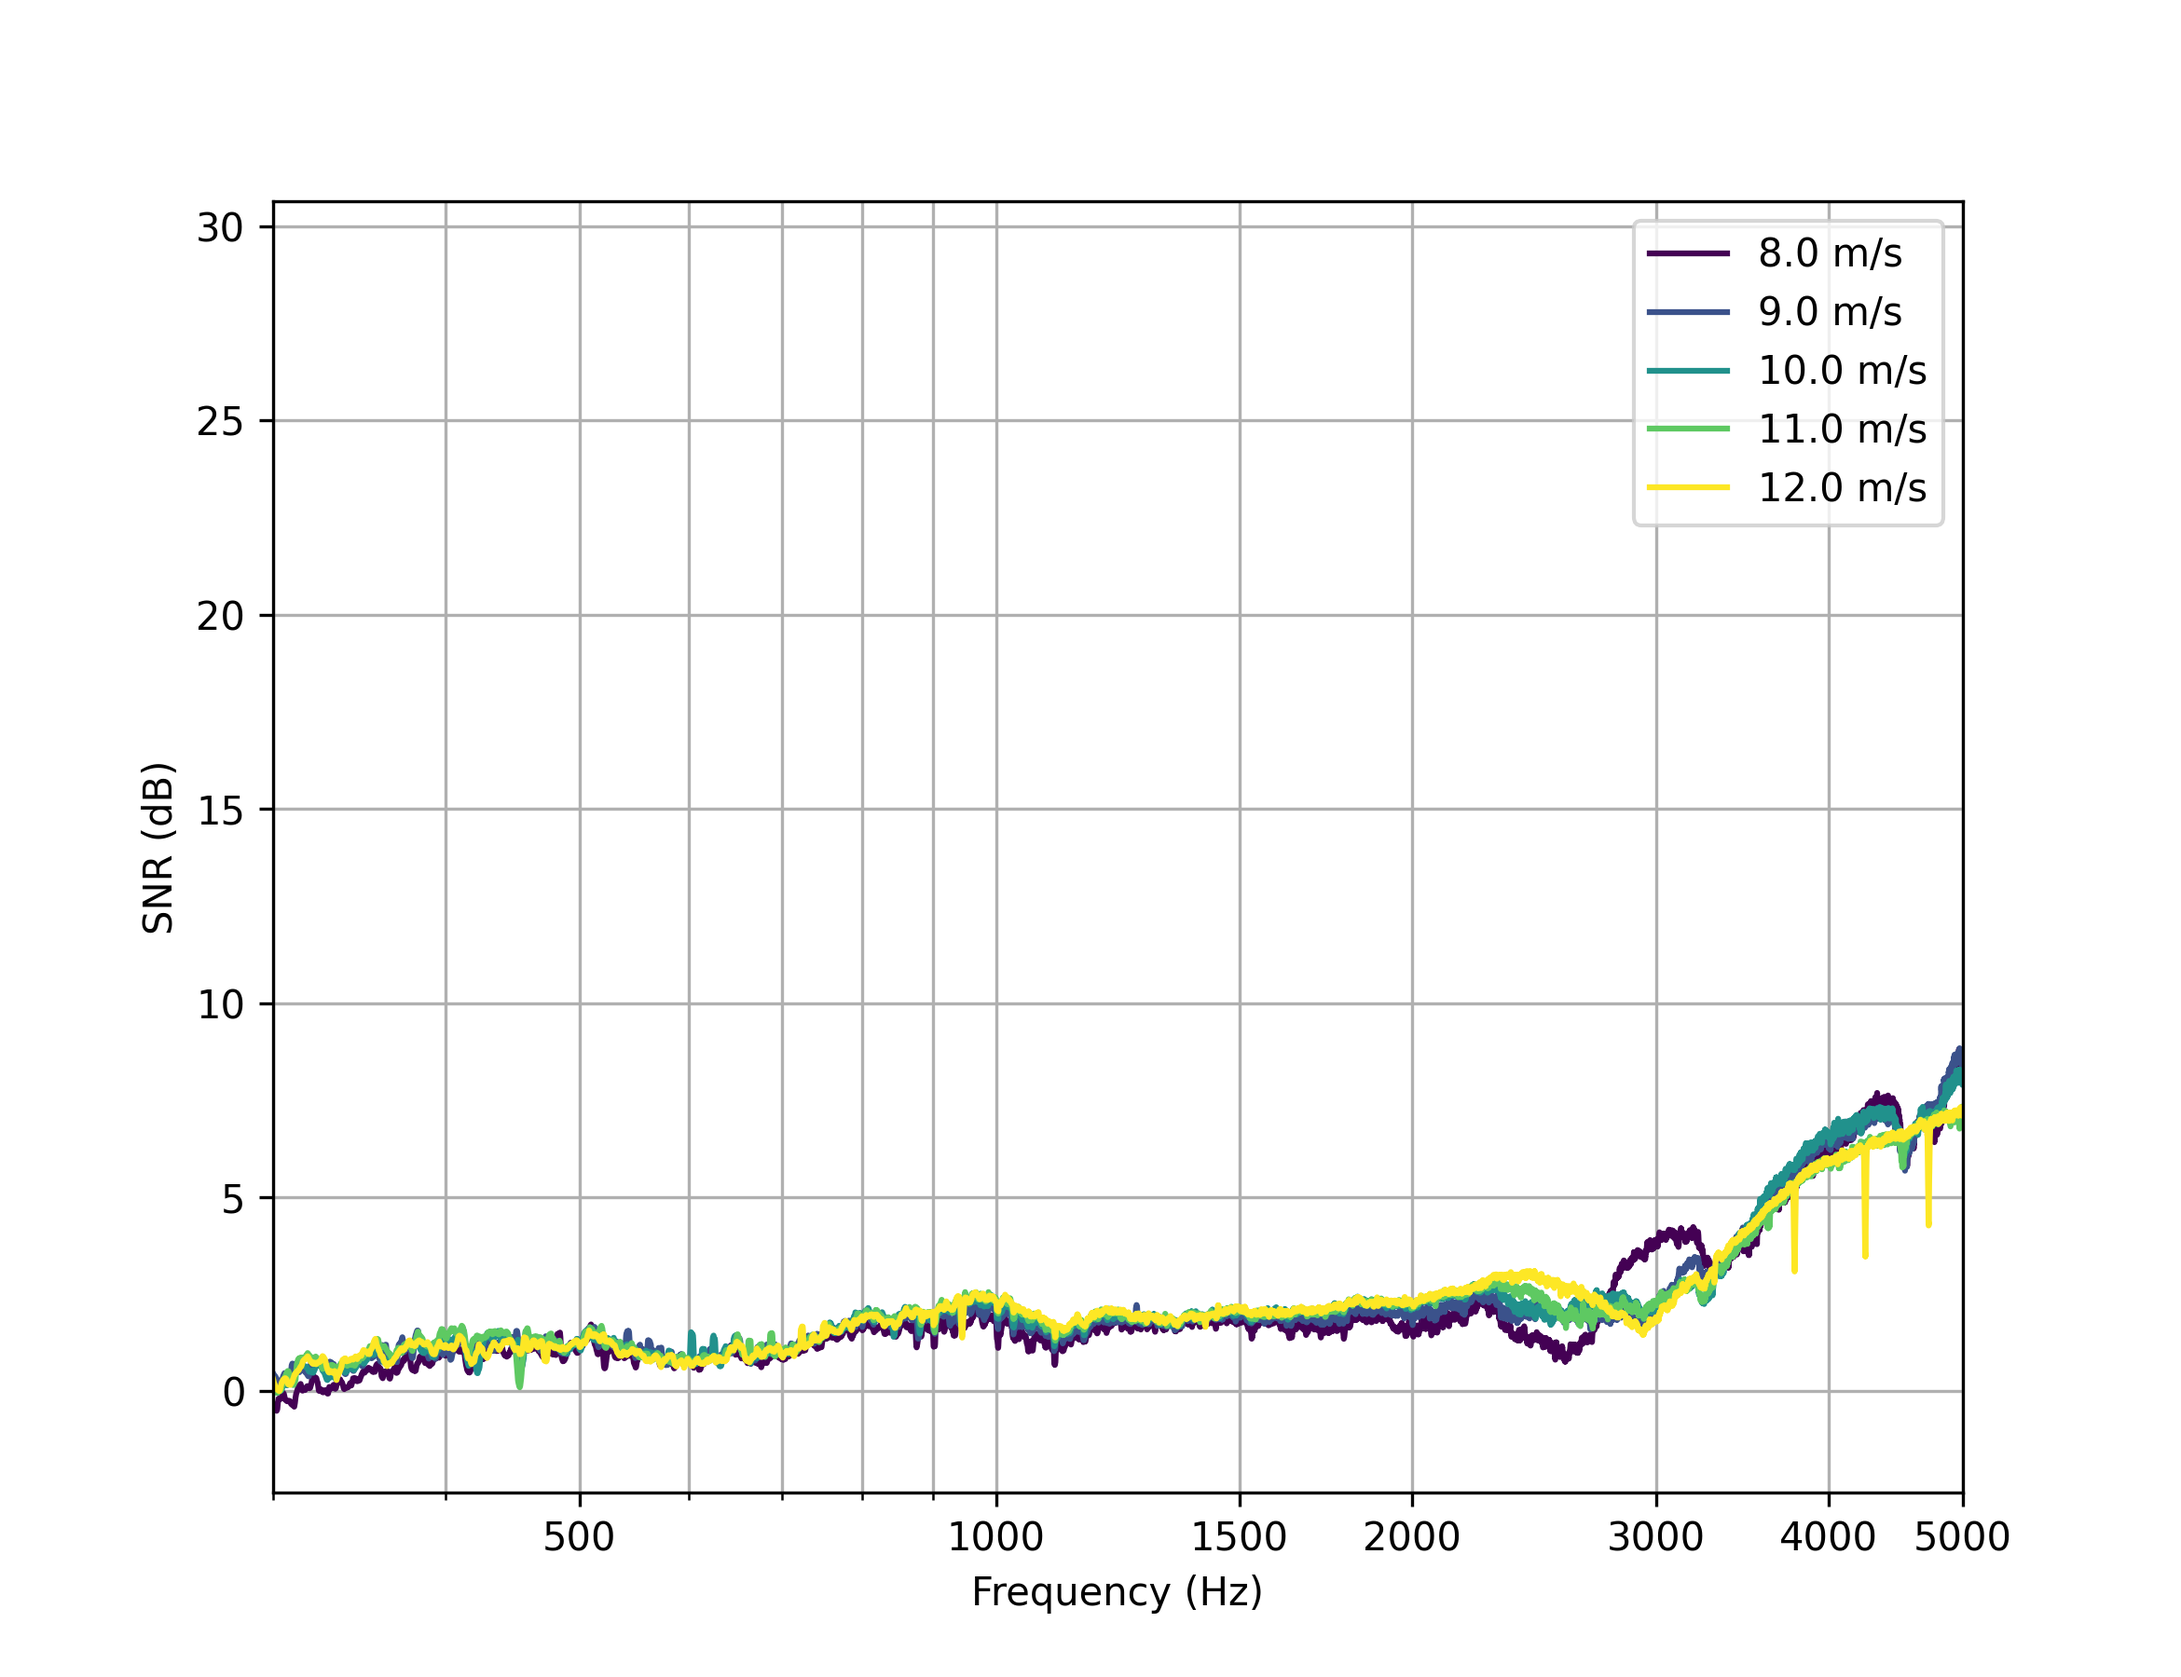
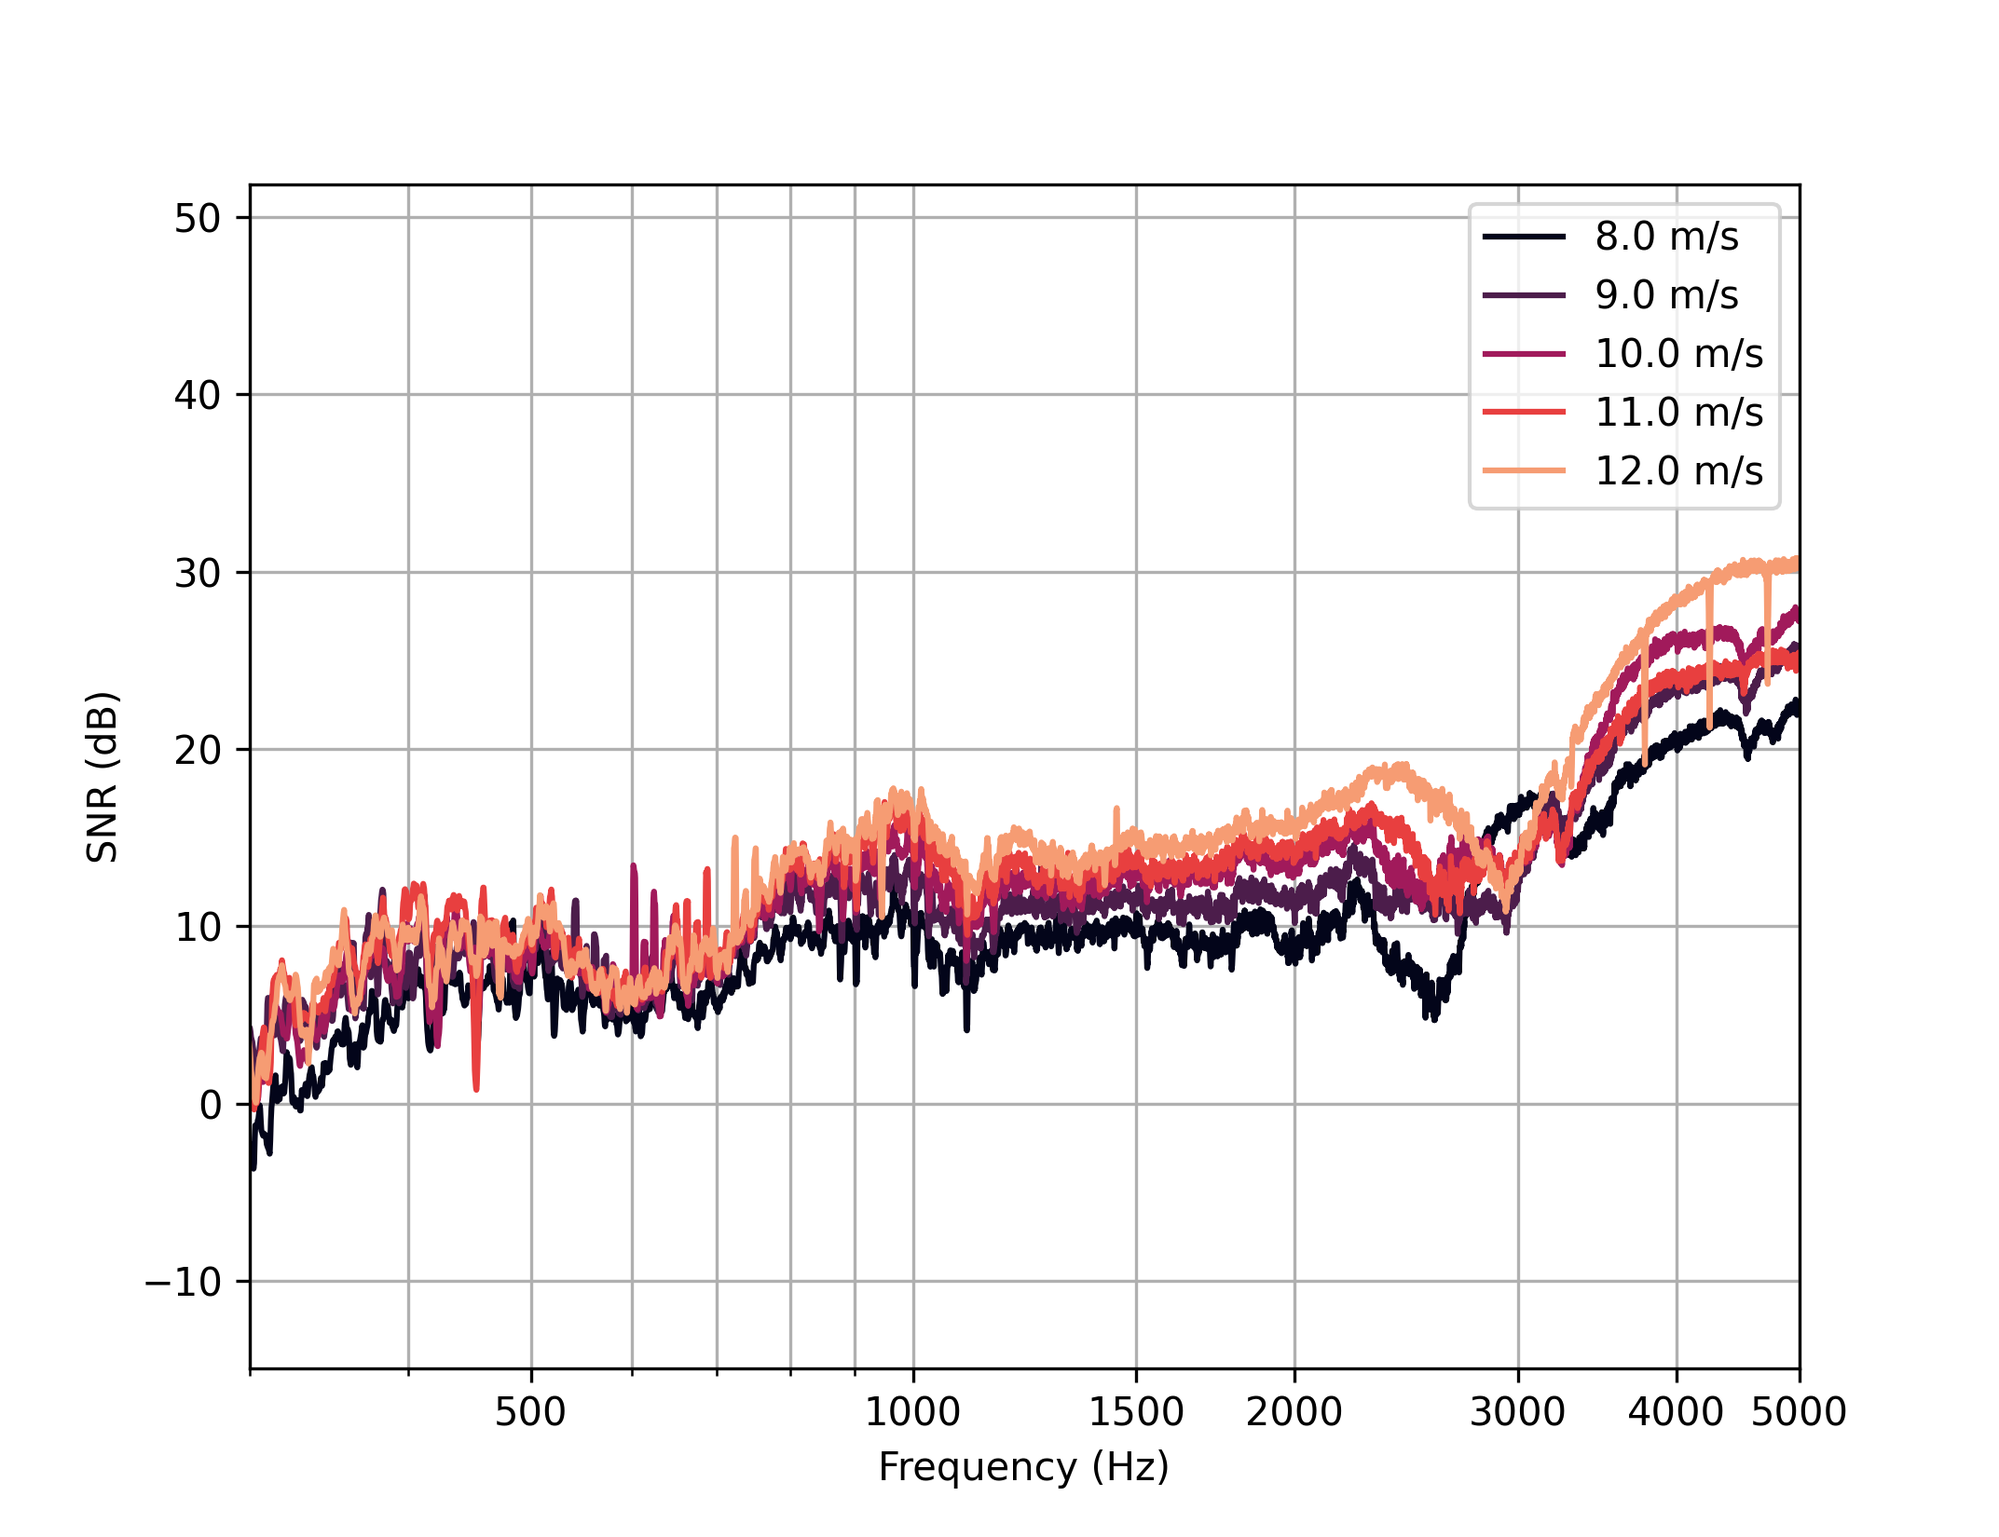
Adjusted data plots

diff --git a/plot_data.py b/plot_data.py
@@ -6,12 +6,13 @@ import pickle as pkl
 
 f_lower = 300  # Hz
 f_upper = 5000 # Hz
-scaling_factor = 1.4
+scaling_factor = 1.1
 size_x = 6.5 * scaling_factor
 size_y = 5 * scaling_factor
 x_ticks = [500, 1000, 1500, 2000, 3000, 4000, 5000]
 color_scheme = 'rocket'
 n_smooth = 10
+v_inf_symb = '$V_{\\infty}$'
 
 # Load data from pickle file
 with open('saves/processed_data.pkl', 'rb') as f:
@@ -29,6 +30,8 @@ with open('saves/processed_data.pkl', 'rb') as f:
 # Convert spl dataframes to spl series
 bg_spl_list = [bg_spl.iloc[:,0] for bg_spl in bg_spl_list]
 wt_spl_list = [wt_spl.iloc[:,0] for wt_spl in wt_spl_list]
+
+print(f'Frequency resolution: {bg_psd_list[0].index[1] - bg_psd_list[0].index[0]} Hz')
 
 # Import data from BPM model (data/BPM/data.csv)
 bpm_list = []
@@ -50,7 +53,7 @@ for i in range(len(v_inf_list) + 1):
 fig, ax = plt.subplots(figsize=(size_x, size_y))
 for wt, v_inf, color in zip(wt_psd_list, v_inf_list, colors):
     wt = wt.rolling(n_smooth, center=True).mean()
-    wt.plot(ax=ax, color=color, label=f'{v_inf} m/s')
+    wt.plot(ax=ax, color=color, label=f'{v_inf_symb} = {v_inf} m/s')
 ax.set_xscale('log')
 ax.set_xlabel('Frequency (Hz)')
 ax.set_ylabel('PSD (dB/Hz)')
@@ -60,6 +63,7 @@ ax.set_xlim(f_lower, f_upper)
 ax.set_ylim(20, 50)
 plt.xticks(x_ticks, x_ticks)
 plt.savefig('saves/wt_psd.png', dpi=300)
+plt.tight_layout()
 plt.show()
 
 # Plot SNR for wt/bg
@@ -72,7 +76,7 @@ for wt, bg, v_inf in zip(wt_psd_list, bg_psd_list, v_inf_list):
 fig, ax = plt.subplots(figsize=(size_x, size_y))
 for SNR, v_inf, color in zip(SNR_list, v_inf_list, colors):
     SNR = SNR.rolling(n_smooth, center=True).mean()
-    SNR.plot(ax=ax, color=color, label=f'{v_inf} m/s')
+    SNR.plot(ax=ax, color=color, label=f'{v_inf_symb} = {v_inf} m/s')
 ax.set_xscale('log')
 ax.set_xlabel('Frequency (Hz)')
 ax.set_ylabel('SNR (dB)')
@@ -81,41 +85,59 @@ ax.grid(True, which='both')
 ax.set_xlim(f_lower, f_upper)
 plt.xticks(x_ticks, x_ticks)
 plt.savefig('saves/wt_bg_snr.png', dpi=300)
+plt.tight_layout()
 plt.show()
 
 # Plot SPL for wt
 fig, ax = plt.subplots(figsize=(size_x, size_y))
 for wt, v_inf, color in zip(wt_spl_list, v_inf_list, colors):
-    wt.plot(ax=ax, color=color, label=f'{v_inf} m/s')
+    wt.plot(ax=ax, color=color, label=f'{v_inf_symb} = {v_inf} m/s')
 ax.set_xscale('log')
 ax.set_xlabel('Frequency (Hz)')
 ax.set_ylabel('SPL (dB)')
 ax.legend()
 ax.grid(True, which='both')
 ax.set_xlim(f_lower, f_upper)
-ax.set_ylim(30,67)
+ax.set_ylim(35,65)
 plt.xticks(x_ticks, x_ticks)
 plt.savefig('saves/wt_spl.png', dpi=300)
+plt.tight_layout()
 plt.show()
 
 # Plot wide spectrum SPL for wt
 fig, ax = plt.subplots(figsize=(size_x, size_y))
 for wt, v_inf, color in zip(wt_spl_list, v_inf_list, colors):
-    wt.plot(ax=ax, color=color, label=f'{v_inf} m/s')
+    wt.plot(ax=ax, color=color, label=f'{v_inf_symb} = {v_inf} m/s')
 ax.set_xscale('linear')
 ax.set_xlabel('Frequency (Hz)')
 ax.set_ylabel('SPL (dB)')
 ax.legend()
 ax.grid(True, which='both')
-ax.set_xlim(1, 24500)
-ax.set_ylim(25, 80)
-plt.savefig('saves/wt_spl=wideband.png', dpi=300)
+ax.set_xlim(100, 23500)
+ax.set_ylim(1, 80)
+plt.savefig('saves/wt_spl_wideband.png', dpi=300)
+plt.tight_layout()
+plt.show()
+
+# Plot wide spectrum SPL for bg
+fig, ax = plt.subplots(figsize=(size_x, size_y))
+for bg, v_inf, color in zip(bg_spl_list, v_inf_list, colors):
+    bg.plot(ax=ax, color=color, label=f'{v_inf_symb} = {v_inf} m/s')
+ax.set_xscale('linear')
+ax.set_xlabel('Frequency (Hz)')
+ax.set_ylabel('SPL (dB)')
+ax.legend()
+ax.grid(True, which='both')
+ax.set_xlim(100, 23500)
+ax.set_ylim(1, 80)
+plt.savefig('saves/bg_spl_wideband.png', dpi=300)
+plt.tight_layout()
 plt.show()
 
 # Plot SPL 1/3 for wt
 fig, ax = plt.subplots(figsize=(size_x, size_y))
 for wt, bpm, v_inf, color in zip(wt_spl_1_3_list, bpm_list, v_inf_list, colors):
-    wt.plot(ax=ax, color=color, label=f'wt: {v_inf} m/s')
+    wt.plot(ax=ax, color=color, label=f'{v_inf_symb} = {v_inf} m/s')
     ax.plot(bpm, color=color, linestyle='--')
 ax.set_xscale('log')
 ax.set_xlabel('Frequency (Hz)')
@@ -126,12 +148,13 @@ ax.set_xlim(f_lower, f_upper)
 plt.xticks(x_ticks, x_ticks)
 ax.set_ylim(30, 80)
 plt.savefig('saves/wt_spl.png', dpi=300)
+plt.tight_layout()
 plt.show()
 
 # Plot SPL 1/3 for bg
 fig, ax = plt.subplots(figsize=(size_x, size_y))
 for bg, bpm, v_inf, color in zip(bg_spl_1_3_list, bpm_list, v_inf_list, colors):
-    bg.plot(ax=ax, color=color, label=f'bg: {v_inf} m/s')
+    bg.plot(ax=ax, color=color, label=f'{v_inf_symb} = {v_inf} m/s')
     ax.plot(bpm, color=color, linestyle='--')
 ax.set_xscale('log')
 ax.set_xlabel('Frequency (Hz)')
@@ -141,14 +164,40 @@ ax.grid(True, which='both')
 ax.set_xlim(f_lower, f_upper)
 plt.xticks(x_ticks, x_ticks)
 ax.set_ylim(30, 80)
-plt.savefig('saves/wt_spl.png', dpi=300)
+plt.savefig('saves/bg_spl.png', dpi=300)
+plt.tight_layout()
+plt.show()
+
+denoised_spl_1_3_list = []
+for wt, bg in zip(wt_spl_1_3_list, bg_spl_1_3_list):
+    # Remove from dB and subtract
+    wt = 10**(wt/10)
+    bg = 10**(bg/10)
+    denoised = 10*np.log10(wt - bg)
+    denoised_spl_1_3_list.append(denoised)
+
+# Plot denoised SPL 1/3
+fig, ax = plt.subplots(figsize=(size_x, size_y))
+for denoised, bpm, v_inf, color in zip(denoised_spl_1_3_list, bpm_list, v_inf_list, colors):
+    ax.plot(denoised, color=color, label=f'{v_inf_symb} = {v_inf} m/s')
+    ax.plot(bpm, color=color, linestyle='--')
+ax.set_xscale('log')
+ax.set_xlabel('Frequency (Hz)')
+ax.set_ylabel('SPL (dB)')
+ax.legend()
+ax.grid(True, which='both')
+ax.set_xlim(f_lower, f_upper)
+plt.xticks(x_ticks, x_ticks)
+ax.set_ylim(30, 80)
+plt.savefig('saves/denoised_spl.png', dpi=300)
+plt.tight_layout()
 plt.show()
 
 # Plot abs error between SPL for wt and BPM
 fig, ax = plt.subplots(figsize=(size_x, size_y))
 for wt, bpm, v_inf, color in zip(wt_spl_1_3_list, bpm_list, v_inf_list, colors):
     error = np.abs(wt - bpm)
-    ax.plot(error, color=color, label=f'e: {v_inf} m/s')
+    ax.plot(error, color=color, label=f'{v_inf_symb} = {v_inf} m/s')
 ax.set_xscale('log')
 ax.set_xlabel('Frequency (Hz)')
 ax.set_ylabel('SPL (dB)')
@@ -158,6 +207,7 @@ ax.set_xlim(f_lower, f_upper)
 plt.xticks(x_ticks, x_ticks)
 ax.set_ylim(-2.5, 20)
 plt.savefig('saves/wt_error.png', dpi=300)
+plt.tight_layout()
 plt.show()
 
 # Get trendline A * log10(x) + B
@@ -170,20 +220,18 @@ fig, ax = plt.subplots(figsize=(size_x, size_y))
 # Plot points
 for wt_ospl, v_inf in zip(wt_ospl_list, v_inf_list):
     # Get color from cmap but fixed
-    color = plt.cm.get_cmap('viridis')(50)
+    color = plt.cm.get_cmap('viridis')(20)
     ax.scatter(v_inf, wt_ospl, color=color)
-ax.plot(v_inf_list, trend_ideal_fn[0] * np.log10(v_inf_list) + trend_ideal_fn[1], color=color, label=f'{round(trend_ideal_fn[0], 2)} * log10(v_inf) + {round(trend_ideal_fn[1], 2)}')
+ax.plot(v_inf_list, trend_ideal_fn[0] * np.log10(v_inf_list) + trend_ideal_fn[1], color=color, label=f'{round(trend_ideal_fn[0], 2)/10} * 10 * log10({v_inf_symb}) + {round(trend_ideal_fn[1], 2)}')
 ax.set_xscale('log')
-ax.set_xlabel('Velocity (m/s)')
+ax.set_xlabel(f'{v_inf_symb} = {v_inf} m/s')
 ax.set_ylabel('OSPL (dB)')
 ax.legend()
 ax.grid(True, which='both')
 plt.xticks(v_inf_list, v_inf_list)
 plt.savefig('saves/wt_ospl.png', dpi=300)
+plt.tight_layout()
 plt.show()
-
-
-
 
 
 

diff --git a/BPM_BYU/run.py b/BPM_BYU/run.py
@@ -55,7 +55,7 @@ nu = 1.78e-5
 c0 = 343.2
 psi = 0
 AR = 6.66
-noise_corr = 0 #0.8697933840957954
+noise_corr = 0.8697933840957954
 
 # Iterate over velocities
 for vel in [8., 9., 10., 11., 12.]:
